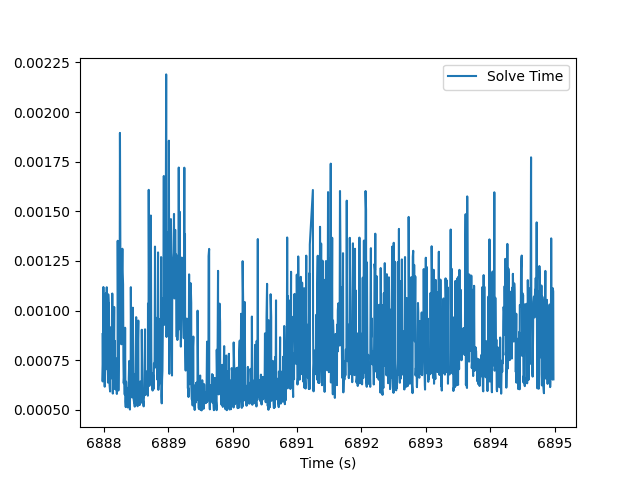
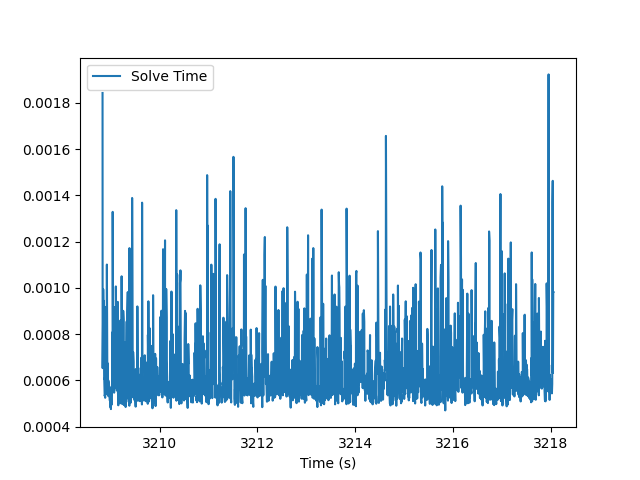
boat

diff --git a/hardware/sensors.py b/hardware/sensors.py
@@ -4,7 +4,7 @@ import json
 import time
 from scipy.spatial.transform import Rotation as R
 # from vnpy import VnSensor
-import zmq
+# import zmq
 from math import sin, cos
 
 from ezauv.hardware.sensor_interface import Sensor
@@ -29,7 +29,7 @@ class DebugVectorNav:
     def read_data(self):
         return {
             "rotation": R.from_euler("zyx", [0, 0, 0]),
-            "acceleration": np.array([0, 0, 0])
+            "acceleration": np.array([10., 0, 0])
         }
 
 class VectorNavIMU(Sensor):
@@ -44,7 +44,7 @@ class VectorNavIMU(Sensor):
         return {
             "rotation": rot,
             "acceleration": data["acceleration"],
-            "heading": (rot.as_euler('zyx')[0] + self.calibrated_heading) % 360
+            "heading": (rot.as_euler('zyx')[0] + self.calibrated_heading) % np.pi
         }
 
     def initialize(self) -> None:
@@ -59,6 +59,19 @@ class VectorNavIMU(Sensor):
 
     def overview(self) -> None:
         print(f"VectorNav IMU")
+import time
+class DebugGPS(Sensor):
+    def __init__(self):
+        self.start = 0
+
+    def get_data(self) -> dict:
+        return {"position": [5 * (time.time() - self.start) ** 2, 0]}
+
+    def initialize(self) -> None:
+        self.start = time.time()
+
+    def overview(self) -> None:
+        print(f"Debug GPS")
 
 # class Camera(Sensor):
 #     def __init__(self):
@@ -77,29 +90,29 @@ class VectorNavIMU(Sensor):
 #         ...
 
 
-class NetCam(Sensor):
-    def initialize(self, port, addr, context):
-        context = zmq.Context()
-        global socket
-        socket = context.socket(zmq.SUB)
-        socket.connect("tcp://" + addr + ":" + port)
-
-    def get_data():
-        list_data = []
-        data_packed = socket.recv_json()
-
-        classes = data_packed[::3]
-        distences = data_packed[1::3]
-        rotations = data_packed[2::3]
-
-        id = 0
-        for i in range(rotations):
-            x = sin(i) * distences[id]
-            y = cos(i) * distences[id]
-
-            list_data.append((classes[id], float(x), float(y)))
-
-            id = id + 1
-
-        data = {"buoy": list_data}
-        return data
+# class NetCam(Sensor):
+#     def initialize(self, port, addr, context):
+#         context = zmq.Context()
+#         global socket
+#         socket = context.socket(zmq.SUB)
+#         socket.connect("tcp://" + addr + ":" + port)
+#
+#     def get_data():
+#         list_data = []
+#         data_packed = socket.recv_json()
+#
+#         classes = data_packed[::3]
+#         distences = data_packed[1::3]
+#         rotations = data_packed[2::3]
+#
+#         id = 0
+#         for i in range(rotations):
+#             x = sin(i) * distences[id]
+#             y = cos(i) * distences[id]
+#
+#             list_data.append((classes[id], float(x), float(y)))
+#
+#             id = id + 1
+#
+#         data = {"buoy": list_data}
+#         return data

diff --git a/main.py b/main.py
@@ -90,7 +90,7 @@ def main():
             ],
             coefficients=degrees
         ),
-        sensors=SensorInterface(sensors=[hardware.imu]),
+        sensors=SensorInterface(sensors=[hardware.imu, hardware.gps]),
         lock_to_yaw=False,
         # clock=sim.clock(),
         map=RoboBoatMap(
@@ -104,7 +104,6 @@ def main():
             rotational_velocity_std=0.05
         )
     )
-
 
     # mission = Path(
     #     # AccelerateVector(AccelerationState(Tx=1, local=False), 3),      # start by going right locally,
@@ -121,7 +120,7 @@ def main():
 
     mission = Path(
         # SleepTask(10)
-        WaypointTask(3, 0., 0.5, 2., 0., 3.0, 3., 0., 0., goal=CircleGridObject(np.array([0,10]), 1.0), lookahead_distance=1.5)
+        WaypointTask(3, 0., 0.5, 2., 0., 3.0, 3., 0., 0., goal=CircleGridObject(np.array([10,0]), 1.0), lookahead_distance=1.5)
 
         # EntryGate(
         #     3, 0., 0.5, 2., 0., 3.0, 3., 0., 0.,
@@ -192,6 +191,14 @@ def main():
         ],
         ["Solve Time"],
         title="Solve Time"
+    ),
+    TELEMETRY.draw_graph(
+        [
+            lambda data: data["position measurement x"],
+            lambda data: data["position x"]
+        ],
+        ["Position Measurement X", "Position Estimate X"],
+        title="Position Measurement vs Estimate X"
     )
     TELEMETRY.animate()
 

diff --git a/ezauv/telemetry.py b/ezauv/telemetry.py
@@ -45,14 +45,14 @@ class TelemetryManager:
             position = entry.get("position", None),
             rotation = entry.get("rotation", None),
             velocity = entry.get("velocity", None),
-            motor_accelerations = [1,1,1,1],
+            motor_accelerations = entry.get("accelerations", None),
             debug_text = entry.get("debug text", ""),
             waypoint_locations = entry.get("waypoint locations", None),
             obstacles = entry.get("obstacles", None),
             visible_obstacles = entry.get("visible obstacles", None),
             obstacle_pixels = entry.get("obstacle pixels", None),
             goal_pixels = entry.get("goal pixels", None),
-            goal_location = entry.get("goal location", None),
+            goal_location = entry.get("goal", None),
         )
         self.data = {}
         self.current_step += 1
@@ -60,7 +60,7 @@ class TelemetryManager:
     def build_arrays(self):
         self.built = {}
         for key in self.all_keys:
-            self.built[key] = np.array([entry.get(key, np.nan) for entry in self.telemetry_data])
+            self.built[key] = np.array([entry.get(key, np.nan) for entry in self.telemetry_data], dtype=object)
 
     def kill(self):
         print("Stopping telemetry...")

diff --git a/ezauv/mission/tasks/main/waypoint.py b/ezauv/mission/tasks/main/waypoint.py
@@ -7,6 +7,7 @@ import numpy as np
 import math
 from ezauv.simulation.animator import set_waypoint, set_goal, set_text
 import time
+from ezauv.telemetry import TELEMETRY
 
 
 class WaypointTask(DirectVelocityTask):
@@ -66,7 +67,8 @@ class WaypointTask(DirectVelocityTask):
                 # set_text("")
                 self.debug_empty_path_start_time = None
                 self.final_heading = self.get_final_heading(self.path)
-                set_goal(np.array([self.path.end[0], self.path.end[1]]))
+                set_goal((self.path.end[0], self.path.end[1]))
+                TELEMETRY.submit("goal", np.array([self.path.end[0], self.path.end[1]]))
         if self.wanted_ticket is not None:
             if self.debug_empty_path_start_time is None:
                 self.debug_empty_path_start_time = time.time()
@@ -74,6 +76,7 @@ class WaypointTask(DirectVelocityTask):
             if self.path is None:
                 return (self.map.heading, 0.0)
         set_waypoint(self.path.waypoints)
+        TELEMETRY.submit("waypoint locations", self.path.waypoints)
 
         
         

diff --git a/ezauv/auv.py b/ezauv/auv.py
@@ -116,9 +116,9 @@ class AUV:
                     d = time.perf_counter()
                     TELEMETRY.submit("loop time", self.clock.perf_counter() - prev_update)
                     TELEMETRY.step(self.clock.perf_counter())
-                    if self.clock.perf_counter() - prev_update > 0.3:
+                    # if self.clock.perf_counter() - prev_update > 0.3:
                         # print(b - a, c - b, d - c)
-                        raise TimeoutError("Main loop is taking too long (>300ms)")
+                        # raise TimeoutError("Main loop is taking too long (>300ms)")
 
         except:
             self.logger.log(traceback.format_exc(), level=LogLevel.ERROR)

diff --git a/ezauv/map/flat_map.py b/ezauv/map/flat_map.py
@@ -103,6 +103,7 @@ class FlatMap(Map):
                 imu_accel=(ax, ay),
             )
         else:
+            # print("dt:", dt)
             self.kf.predict(
                 dt=dt,
                 imu_accel=(0.0, 0.0),
@@ -121,6 +122,7 @@ class FlatMap(Map):
                 [1, 0, 0, 0, 0, 0],
                 [0, 1, 0, 0, 0, 0],
             ])
+            TELEMETRY.submit("position measurement x", position[0])
 
         if rotation is not None:
             theta = sensor_data.get("heading", None)
@@ -159,4 +161,4 @@ class FlatMap(Map):
         TELEMETRY.submit("position", self.position)
         TELEMETRY.submit("rotation", self.heading)
         TELEMETRY.submit("velocity", self.velocities)
-
+        TELEMETRY.submit("position x", self.position[0])

diff --git a/ezauv/map/grid.py b/ezauv/map/grid.py
@@ -5,7 +5,7 @@ from ezauv.map.grid_objects import GridObject
 from ezauv.map.path import Path
 from scipy.ndimage import distance_transform_edt
 from ezauv.simulation.animator import set_goal_pixels, set_obstacle_pixels
-
+from ezauv.telemetry import TELEMETRY
 from multiprocessing import Process, Queue
 import queue
 import time
@@ -64,8 +64,10 @@ class PathManager:
                 self.latest_path, path_id, obstacle_pixels, goal_pixels = self.result_q.get_nowait()
                 if obstacle_pixels is not None:
                     set_obstacle_pixels(obstacle_pixels)
+                    TELEMETRY.submit("obstacle pixels", obstacle_pixels)
                 if goal_pixels is not None:
                     set_goal_pixels(goal_pixels)
+                    TELEMETRY.submit("goal pixels", goal_pixels)
         except queue.Empty:
             pass
         return self.latest_path, path_id

diff --git a/ezauv/map/obstacle_map.py b/ezauv/map/obstacle_map.py
@@ -8,6 +8,9 @@ import numpy as np
 from ezauv.simulation.animator import set_visible_obstacles
 from copy import copy
 
+from ezauv.telemetry import TELEMETRY
+
+
 class Obstacle:
     def __init__(self, position, radius, lifetime=np.inf):
         self.position = position
@@ -73,6 +76,7 @@ class ObstacleMap(FlatMap):
             self.obstacles_dirty = True
         
         set_visible_obstacles(self.obstacles)
+        TELEMETRY.submit("visible obstacles", self.obstacles)
         
 
     def update(self, sensor_data):

diff --git a/boat_hardware.py b/boat_hardware.py
@@ -1,10 +1,11 @@
 from hardware.motor_serial import MotorSerial
-from hardware.sensors import VectorNavIMU
+from hardware.sensors import VectorNavIMU, DebugGPS
 
 class BoatHardware:
     def __init__(self, *, arduino_port, vectornav_port):
         self.motor_serial = MotorSerial(arduino_port)
         self.imu = VectorNavIMU(vectornav_port, 921600)
+        self.gps = DebugGPS()
 
         self.prev = {}
 

diff --git a/hardware/port_controller.py b/hardware/port_controller.py
@@ -27,4 +27,5 @@ class DebugPortController:
 
     def write(self, data, encoding= 'utf-8'):
         """Write `data` to port using `encoding`"""
-        print("Writing to port:", data)
+        # print("Writing to port:", data)
+        ...

diff --git a/ezauv/hardware/motor_controller.py b/ezauv/hardware/motor_controller.py
@@ -306,7 +306,7 @@ class MotorController:
                 motor_controls[i] = motor.bounds.max
             elif motor_controls[i] < motor.bounds.min:
                 motor_controls[i] = motor.bounds.min
-        TELEMETRY.submit("motor accelerations", motor_controls)
+        TELEMETRY.submit("accelerations", motor_controls)
         return True, motor_controls
 
     def set_motors(self, motor_speeds):

diff --git a/ezauv/animator.py b/ezauv/animator.py
@@ -82,6 +82,7 @@ class Animator:
         for pix in frame_info['goal_pixels']:
             self.screen.set_at(self.to_screen(pix), (255, 255, 0))
 
+        # print(screen_points)
         pygame.draw.polygon(self.screen, (0,0,0), screen_points)
 
         front_endpoint = position + np.array([cos_a, sin_a]) * 1.5